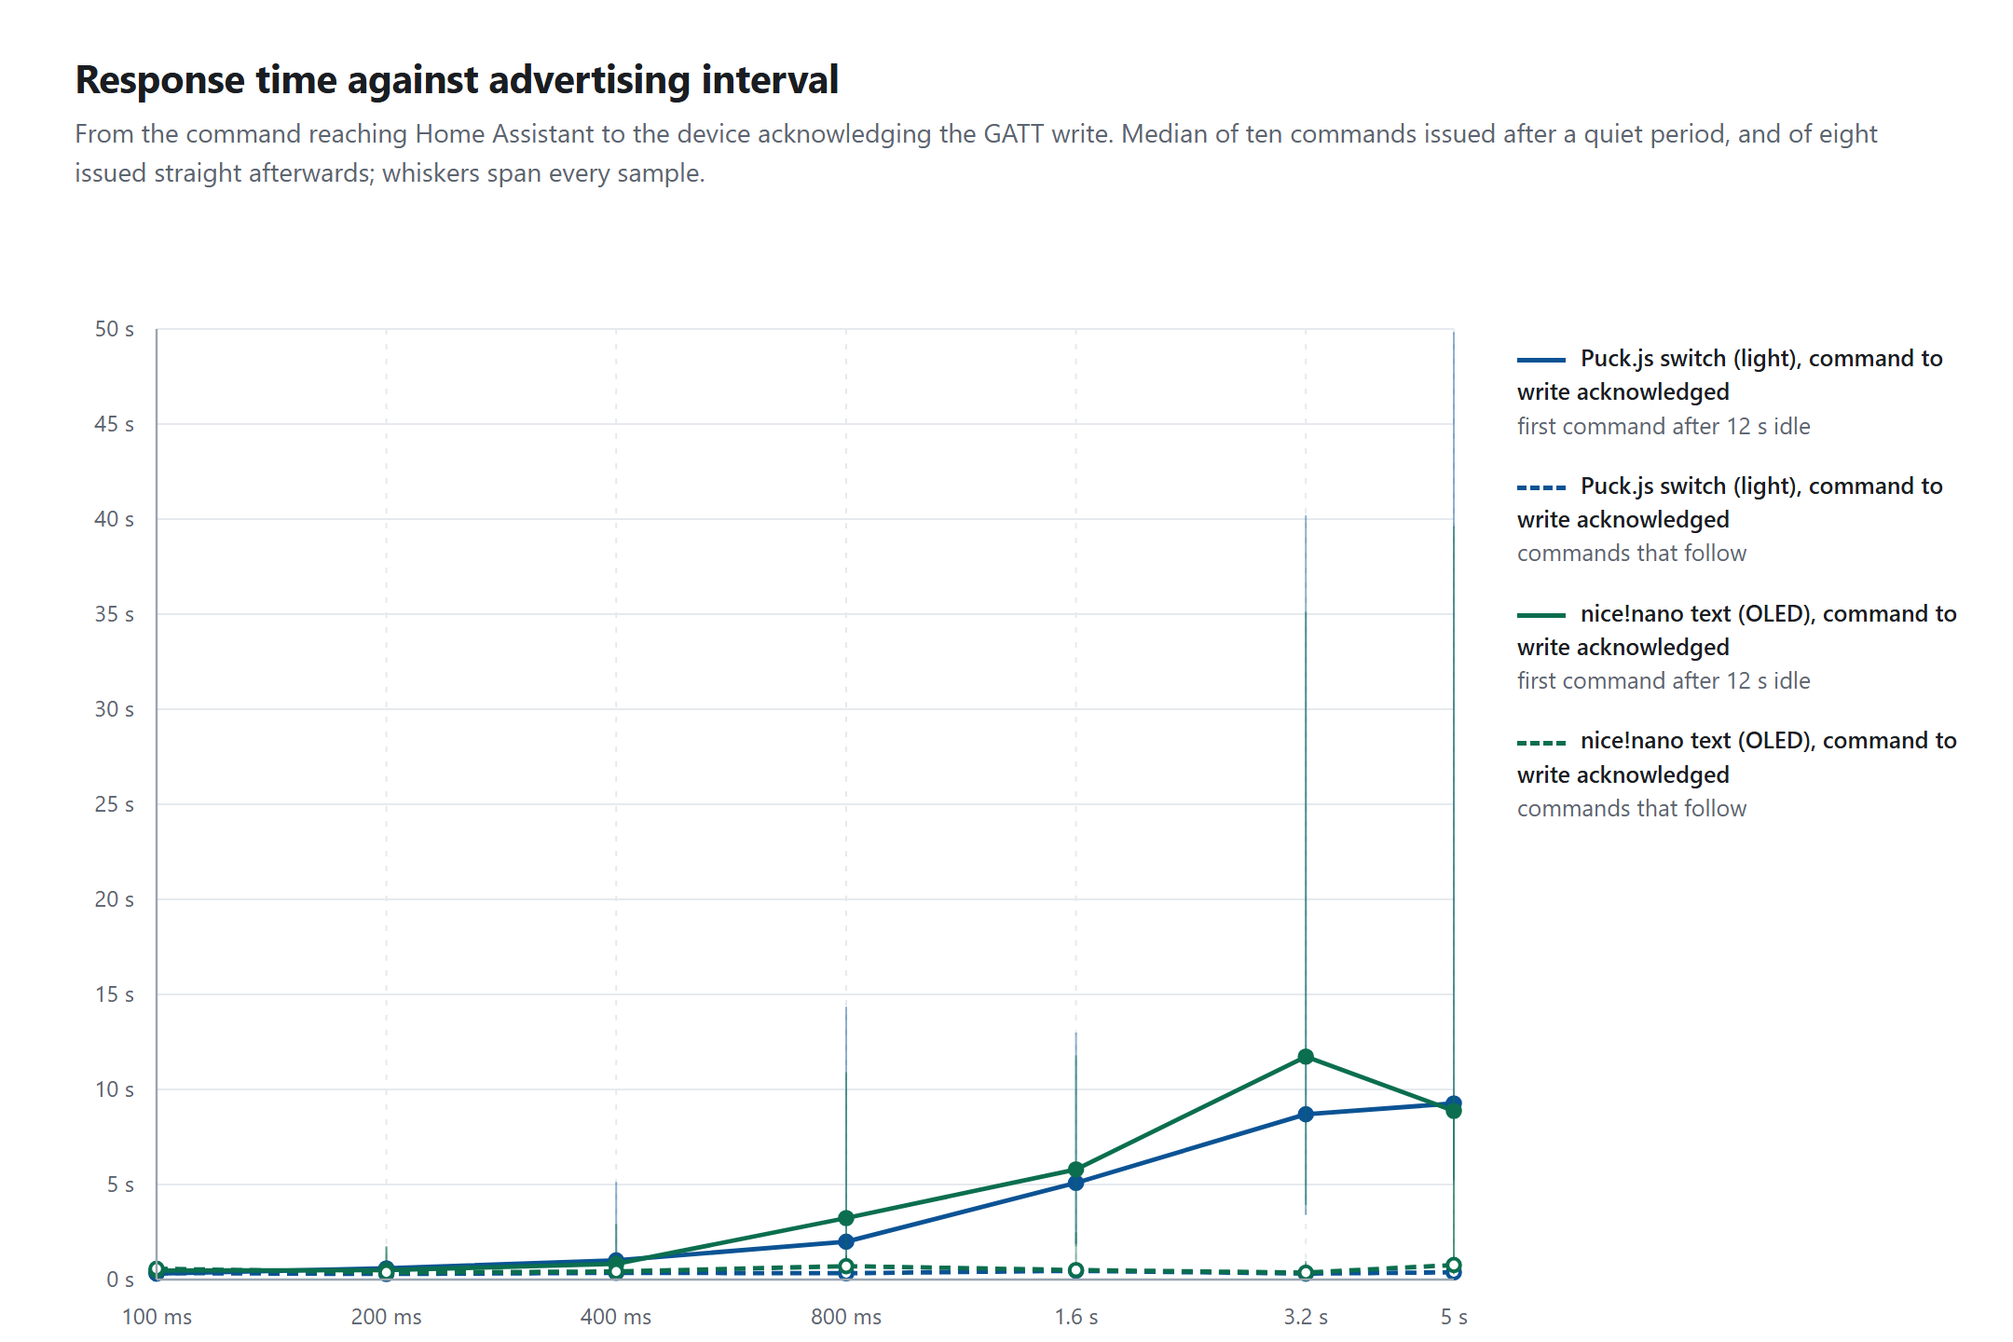
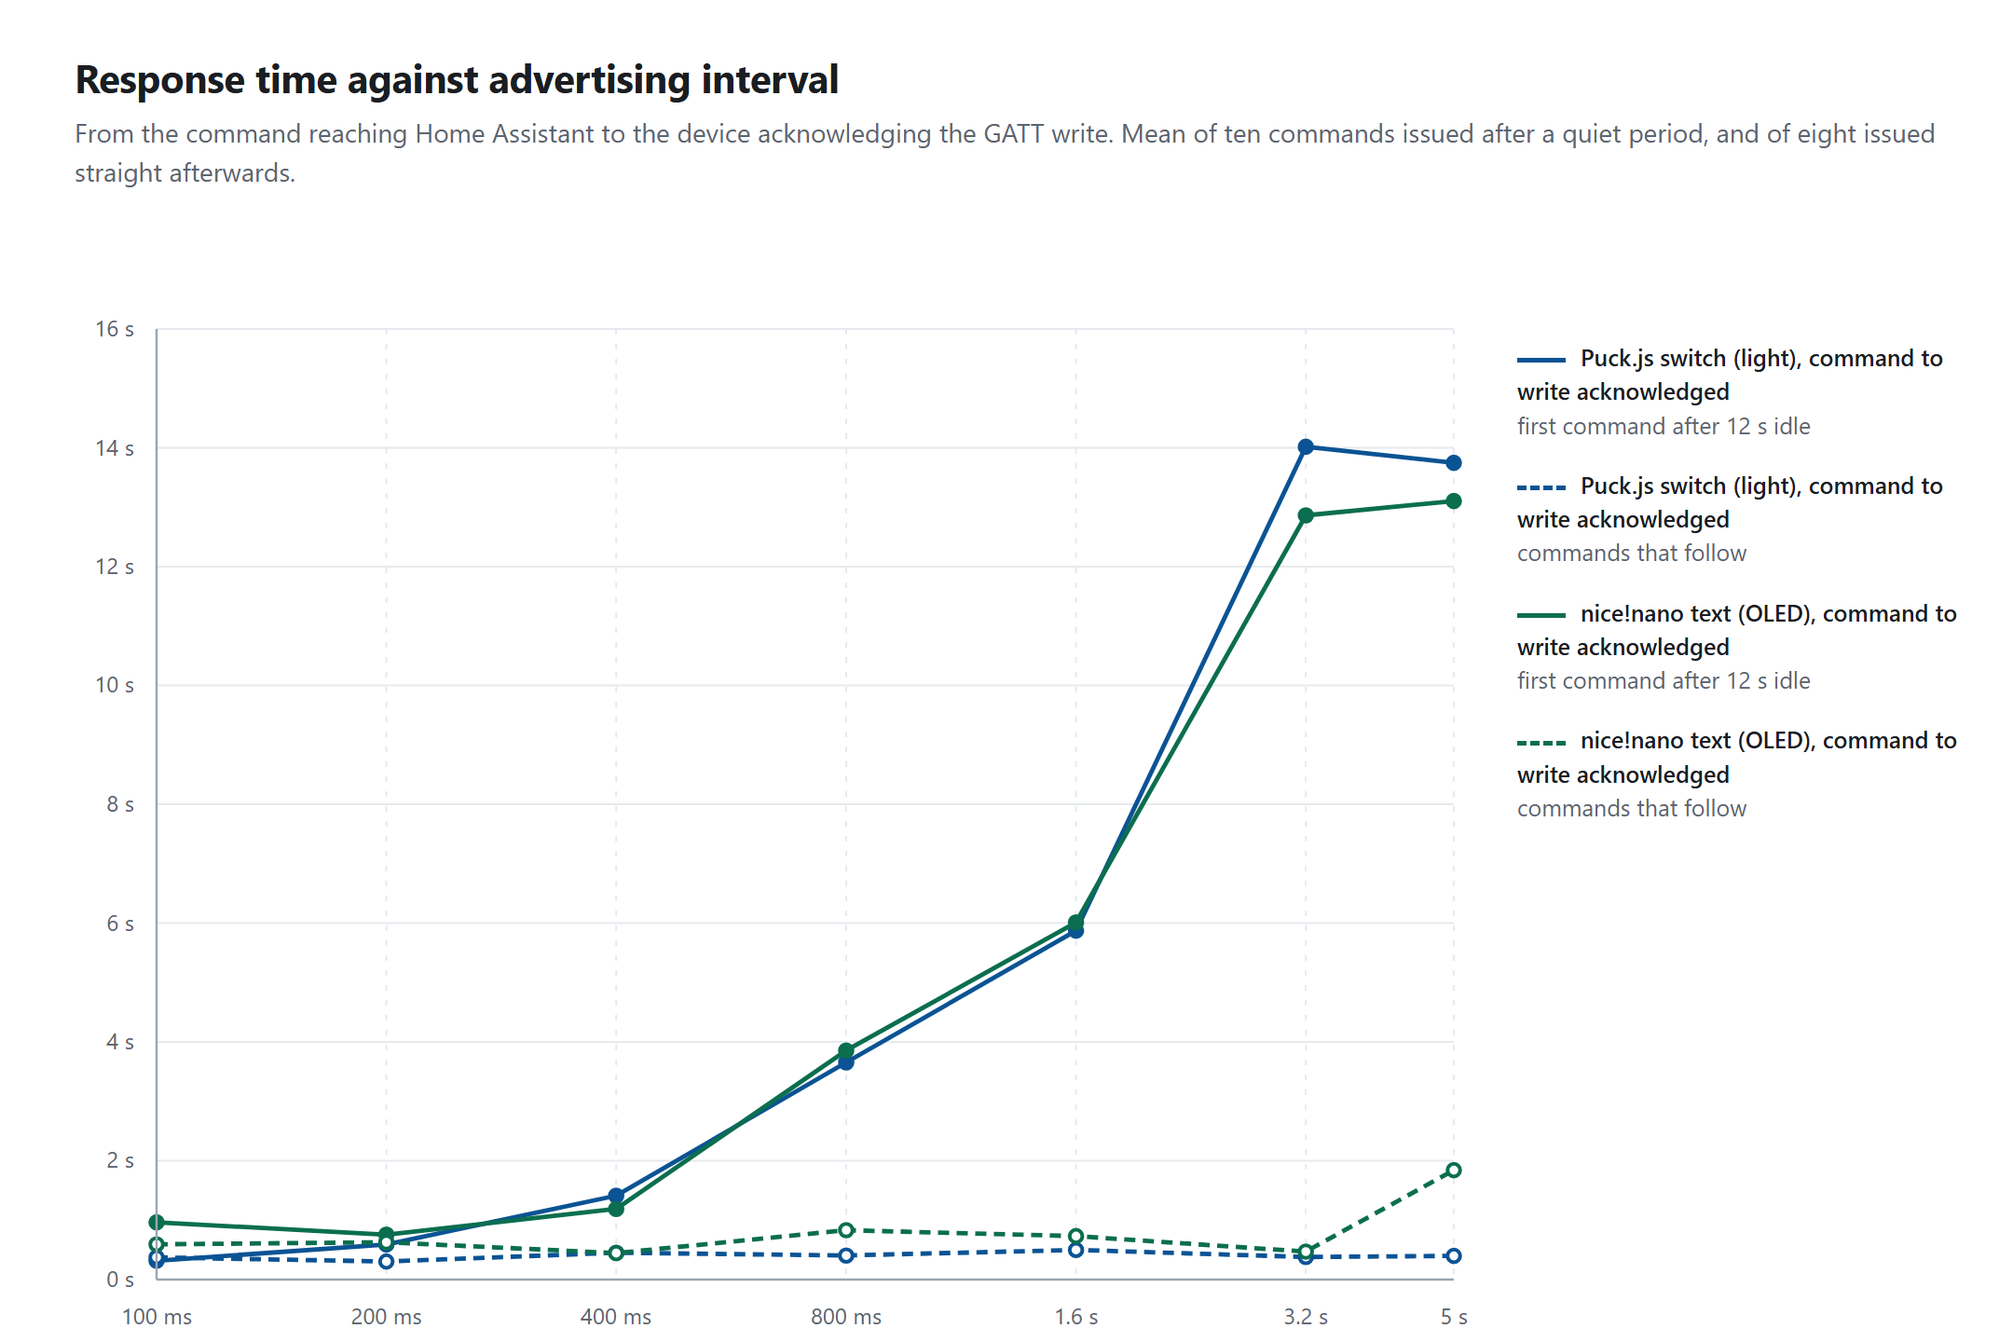
Draw the mean alone, and give the axis back the room
The latency figure plotted the median with a whisker to every sample,
which pushed the vertical scale to 50 s so that one 49.8 s outlier
could be drawn -- and squashed the curves everyone actually reads into
the bottom fifth of the plot.

One point per interval now, the mean, nothing around it. The axis
follows: 0-16 s, in 2 s steps. The spread has not gone anywhere; the
tables in measurements.md give the median, the mean and the full range
side by side, which is where a number you want to compare belongs.

Claude-Session: https://claude.ai/code/session_01Q9J3W2hNkNZMMduBZZmfHi

diff --git a/docs/figures/latency-vs-interval.html b/docs/figures/latency-vs-interval.html
@@ -29,32 +29,28 @@
 </style>
 <h1>Response time against advertising interval</h1>
 <p class="sub">From the command reaching Home Assistant to the device acknowledging the
-GATT write. Median of ten commands issued after a quiet period, and of eight issued
-straight afterwards; whiskers span every sample.</p>
+GATT write. Mean of ten commands issued after a quiet period, and of eight issued
+straight afterwards.</p>
 <div style="position:relative">
 <svg width="1080" height="660" viewBox="0 0 1080 660">
 <line class="grid" x1="84" y1="584.0" x2="780" y2="584.0"/>
 <text class="tick y" x="72" y="588.0">0 s</text>
-<line class="grid" x1="84" y1="533.0" x2="780" y2="533.0"/>
-<text class="tick y" x="72" y="537.0">5 s</text>
-<line class="grid" x1="84" y1="482.0" x2="780" y2="482.0"/>
-<text class="tick y" x="72" y="486.0">10 s</text>
-<line class="grid" x1="84" y1="431.0" x2="780" y2="431.0"/>
-<text class="tick y" x="72" y="435.0">15 s</text>
-<line class="grid" x1="84" y1="380.0" x2="780" y2="380.0"/>
-<text class="tick y" x="72" y="384.0">20 s</text>
+<line class="grid" x1="84" y1="520.2" x2="780" y2="520.2"/>
+<text class="tick y" x="72" y="524.2">2 s</text>
+<line class="grid" x1="84" y1="456.5" x2="780" y2="456.5"/>
+<text class="tick y" x="72" y="460.5">4 s</text>
+<line class="grid" x1="84" y1="392.8" x2="780" y2="392.8"/>
+<text class="tick y" x="72" y="396.8">6 s</text>
 <line class="grid" x1="84" y1="329.0" x2="780" y2="329.0"/>
-<text class="tick y" x="72" y="333.0">25 s</text>
-<line class="grid" x1="84" y1="278.0" x2="780" y2="278.0"/>
-<text class="tick y" x="72" y="282.0">30 s</text>
-<line class="grid" x1="84" y1="227.0" x2="780" y2="227.0"/>
-<text class="tick y" x="72" y="231.0">35 s</text>
-<line class="grid" x1="84" y1="176.0" x2="780" y2="176.0"/>
-<text class="tick y" x="72" y="180.0">40 s</text>
-<line class="grid" x1="84" y1="125.0" x2="780" y2="125.0"/>
-<text class="tick y" x="72" y="129.0">45 s</text>
+<text class="tick y" x="72" y="333.0">8 s</text>
+<line class="grid" x1="84" y1="265.2" x2="780" y2="265.2"/>
+<text class="tick y" x="72" y="269.2">10 s</text>
+<line class="grid" x1="84" y1="201.5" x2="780" y2="201.5"/>
+<text class="tick y" x="72" y="205.5">12 s</text>
+<line class="grid" x1="84" y1="137.8" x2="780" y2="137.8"/>
+<text class="tick y" x="72" y="141.8">14 s</text>
 <line class="grid" x1="84" y1="74.0" x2="780" y2="74.0"/>
-<text class="tick y" x="72" y="78.0">50 s</text>
+<text class="tick y" x="72" y="78.0">16 s</text>
 <line class="grid v" x1="84.0" y1="74" x2="84.0" y2="584"/>
 <text class="tick x" x="84.0" y="608">100 ms</text>
 <line class="grid v" x1="207.3" y1="74" x2="207.3" y2="584"/>
@@ -69,66 +65,38 @@ straight afterwards; whiskers span every sample.</p>
 <text class="tick x" x="700.6" y="608">3.2 s</text>
 <line class="grid v" x1="780.0" y1="74" x2="780.0" y2="584"/>
 <text class="tick x" x="780.0" y="608">5 s</text>
-<path d="M84.0 580.8 L207.3 578.0 L330.6 573.7 L454.0 563.7 L577.3 532.1 L700.6 495.3 L780.0 489.5" fill="none" stroke="#0b5394" stroke-width="2.4" stroke-dasharray="" stroke-linejoin="round"/>
-<line x1="84.0" y1="582.0" x2="84.0" y2="578.5" stroke="#0b5394" stroke-width="1" opacity="0.45"/>
-<circle cx="84.0" cy="580.8" r="3.4" fill="#0b5394" stroke="#0b5394" stroke-width="2"/>
-<line x1="207.3" y1="580.5" x2="207.3" y2="573.6" stroke="#0b5394" stroke-width="1" opacity="0.45"/>
-<circle cx="207.3" cy="578.0" r="3.4" fill="#0b5394" stroke="#0b5394" stroke-width="2"/>
-<line x1="330.6" y1="580.5" x2="330.6" y2="531.7" stroke="#0b5394" stroke-width="1" opacity="0.45"/>
-<circle cx="330.6" cy="573.7" r="3.4" fill="#0b5394" stroke="#0b5394" stroke-width="2"/>
-<line x1="454.0" y1="580.6" x2="454.0" y2="437.6" stroke="#0b5394" stroke-width="1" opacity="0.45"/>
-<circle cx="454.0" cy="563.7" r="3.4" fill="#0b5394" stroke="#0b5394" stroke-width="2"/>
-<line x1="577.3" y1="564.8" x2="577.3" y2="451.5" stroke="#0b5394" stroke-width="1" opacity="0.45"/>
-<circle cx="577.3" cy="532.1" r="3.4" fill="#0b5394" stroke="#0b5394" stroke-width="2"/>
-<line x1="700.6" y1="549.4" x2="700.6" y2="174.0" stroke="#0b5394" stroke-width="1" opacity="0.45"/>
-<circle cx="700.6" cy="495.3" r="3.4" fill="#0b5394" stroke="#0b5394" stroke-width="2"/>
-<line x1="780.0" y1="530.8" x2="780.0" y2="75.7" stroke="#0b5394" stroke-width="1" opacity="0.45"/>
-<circle cx="780.0" cy="489.5" r="3.4" fill="#0b5394" stroke="#0b5394" stroke-width="2"/>
-<path d="M84.0 580.5 L207.3 581.0 L330.6 580.4 L454.0 580.6 L577.3 579.3 L700.6 580.8 L780.0 580.1" fill="none" stroke="#0b5394" stroke-width="2.4" stroke-dasharray="6 4" stroke-linejoin="round"/>
-<line x1="84.0" y1="581.5" x2="84.0" y2="577.9" stroke="#0b5394" stroke-width="1" opacity="0.45"/>
-<circle cx="84.0" cy="580.5" r="3.4" fill="#fff" stroke="#0b5394" stroke-width="2"/>
-<line x1="207.3" y1="581.5" x2="207.3" y2="580.0" stroke="#0b5394" stroke-width="1" opacity="0.45"/>
-<circle cx="207.3" cy="581.0" r="3.4" fill="#fff" stroke="#0b5394" stroke-width="2"/>
-<line x1="330.6" y1="581.8" x2="330.6" y2="570.2" stroke="#0b5394" stroke-width="1" opacity="0.45"/>
-<circle cx="330.6" cy="580.4" r="3.4" fill="#fff" stroke="#0b5394" stroke-width="2"/>
-<line x1="454.0" y1="581.8" x2="454.0" y2="574.7" stroke="#0b5394" stroke-width="1" opacity="0.45"/>
-<circle cx="454.0" cy="580.6" r="3.4" fill="#fff" stroke="#0b5394" stroke-width="2"/>
-<line x1="577.3" y1="581.0" x2="577.3" y2="575.4" stroke="#0b5394" stroke-width="1" opacity="0.45"/>
-<circle cx="577.3" cy="579.3" r="3.4" fill="#fff" stroke="#0b5394" stroke-width="2"/>
-<line x1="700.6" y1="581.8" x2="700.6" y2="575.1" stroke="#0b5394" stroke-width="1" opacity="0.45"/>
-<circle cx="700.6" cy="580.8" r="3.4" fill="#fff" stroke="#0b5394" stroke-width="2"/>
-<line x1="780.0" y1="581.6" x2="780.0" y2="577.7" stroke="#0b5394" stroke-width="1" opacity="0.45"/>
-<circle cx="780.0" cy="580.1" r="3.4" fill="#fff" stroke="#0b5394" stroke-width="2"/>
-<path d="M84.0 579.2 L207.3 578.9 L330.6 575.6 L454.0 551.0 L577.3 524.9 L700.6 464.4 L780.0 493.5" fill="none" stroke="#0b6e4f" stroke-width="2.4" stroke-dasharray="" stroke-linejoin="round"/>
-<line x1="84.0" y1="580.8" x2="84.0" y2="546.2" stroke="#0b6e4f" stroke-width="1" opacity="0.45"/>
-<circle cx="84.0" cy="579.2" r="3.4" fill="#0b6e4f" stroke="#0b6e4f" stroke-width="2"/>
-<line x1="207.3" y1="580.2" x2="207.3" y2="566.6" stroke="#0b6e4f" stroke-width="1" opacity="0.45"/>
-<circle cx="207.3" cy="578.9" r="3.4" fill="#0b6e4f" stroke="#0b6e4f" stroke-width="2"/>
-<line x1="330.6" y1="578.3" x2="330.6" y2="554.2" stroke="#0b6e4f" stroke-width="1" opacity="0.45"/>
-<circle cx="330.6" cy="575.6" r="3.4" fill="#0b6e4f" stroke="#0b6e4f" stroke-width="2"/>
-<line x1="454.0" y1="573.1" x2="454.0" y2="472.7" stroke="#0b6e4f" stroke-width="1" opacity="0.45"/>
-<circle cx="454.0" cy="551.0" r="3.4" fill="#0b6e4f" stroke="#0b6e4f" stroke-width="2"/>
-<line x1="577.3" y1="566.2" x2="577.3" y2="463.7" stroke="#0b6e4f" stroke-width="1" opacity="0.45"/>
-<circle cx="577.3" cy="524.9" r="3.4" fill="#0b6e4f" stroke="#0b6e4f" stroke-width="2"/>
-<line x1="700.6" y1="544.0" x2="700.6" y2="225.8" stroke="#0b6e4f" stroke-width="1" opacity="0.45"/>
-<circle cx="700.6" cy="464.4" r="3.4" fill="#0b6e4f" stroke="#0b6e4f" stroke-width="2"/>
-<line x1="780.0" y1="578.9" x2="780.0" y2="179.9" stroke="#0b6e4f" stroke-width="1" opacity="0.45"/>
-<circle cx="780.0" cy="493.5" r="3.4" fill="#0b6e4f" stroke="#0b6e4f" stroke-width="2"/>
-<path d="M84.0 578.2 L207.3 580.2 L330.6 579.7 L454.0 576.8 L577.3 578.9 L700.6 580.3 L780.0 576.2" fill="none" stroke="#0b6e4f" stroke-width="2.4" stroke-dasharray="6 4" stroke-linejoin="round"/>
-<line x1="84.0" y1="581.2" x2="84.0" y2="572.2" stroke="#0b6e4f" stroke-width="1" opacity="0.45"/>
-<circle cx="84.0" cy="578.2" r="3.4" fill="#fff" stroke="#0b6e4f" stroke-width="2"/>
-<line x1="207.3" y1="581.4" x2="207.3" y2="566.0" stroke="#0b6e4f" stroke-width="1" opacity="0.45"/>
-<circle cx="207.3" cy="580.2" r="3.4" fill="#fff" stroke="#0b6e4f" stroke-width="2"/>
-<line x1="330.6" y1="581.4" x2="330.6" y2="576.4" stroke="#0b6e4f" stroke-width="1" opacity="0.45"/>
-<circle cx="330.6" cy="579.7" r="3.4" fill="#fff" stroke="#0b6e4f" stroke-width="2"/>
-<line x1="454.0" y1="580.3" x2="454.0" y2="571.1" stroke="#0b6e4f" stroke-width="1" opacity="0.45"/>
-<circle cx="454.0" cy="576.8" r="3.4" fill="#fff" stroke="#0b6e4f" stroke-width="2"/>
-<line x1="577.3" y1="581.7" x2="577.3" y2="558.6" stroke="#0b6e4f" stroke-width="1" opacity="0.45"/>
-<circle cx="577.3" cy="578.9" r="3.4" fill="#fff" stroke="#0b6e4f" stroke-width="2"/>
-<line x1="700.6" y1="581.7" x2="700.6" y2="574.0" stroke="#0b6e4f" stroke-width="1" opacity="0.45"/>
-<circle cx="700.6" cy="580.3" r="3.4" fill="#fff" stroke="#0b6e4f" stroke-width="2"/>
-<line x1="780.0" y1="581.2" x2="780.0" y2="485.8" stroke="#0b6e4f" stroke-width="1" opacity="0.45"/>
-<circle cx="780.0" cy="576.2" r="3.4" fill="#fff" stroke="#0b6e4f" stroke-width="2"/>
+<path d="M84.0 573.9 L207.3 565.2 L330.6 539.0 L454.0 467.5 L577.3 396.8 L700.6 137.2 L780.0 145.8" fill="none" stroke="#0b5394" stroke-width="2.4" stroke-dasharray="" stroke-linejoin="round"/>
+<circle cx="84.0" cy="573.9" r="3.4" fill="#0b5394" stroke="#0b5394" stroke-width="2"/>
+<circle cx="207.3" cy="565.2" r="3.4" fill="#0b5394" stroke="#0b5394" stroke-width="2"/>
+<circle cx="330.6" cy="539.0" r="3.4" fill="#0b5394" stroke="#0b5394" stroke-width="2"/>
+<circle cx="454.0" cy="467.5" r="3.4" fill="#0b5394" stroke="#0b5394" stroke-width="2"/>
+<circle cx="577.3" cy="396.8" r="3.4" fill="#0b5394" stroke="#0b5394" stroke-width="2"/>
+<circle cx="700.6" cy="137.2" r="3.4" fill="#0b5394" stroke="#0b5394" stroke-width="2"/>
+<circle cx="780.0" cy="145.8" r="3.4" fill="#0b5394" stroke="#0b5394" stroke-width="2"/>
+<path d="M84.0 572.1 L207.3 574.3 L330.6 569.6 L454.0 571.1 L577.3 568.1 L700.6 571.9 L780.0 571.3" fill="none" stroke="#0b5394" stroke-width="2.4" stroke-dasharray="6 4" stroke-linejoin="round"/>
+<circle cx="84.0" cy="572.1" r="3.4" fill="#fff" stroke="#0b5394" stroke-width="2"/>
+<circle cx="207.3" cy="574.3" r="3.4" fill="#fff" stroke="#0b5394" stroke-width="2"/>
+<circle cx="330.6" cy="569.6" r="3.4" fill="#fff" stroke="#0b5394" stroke-width="2"/>
+<circle cx="454.0" cy="571.1" r="3.4" fill="#fff" stroke="#0b5394" stroke-width="2"/>
+<circle cx="577.3" cy="568.1" r="3.4" fill="#fff" stroke="#0b5394" stroke-width="2"/>
+<circle cx="700.6" cy="571.9" r="3.4" fill="#fff" stroke="#0b5394" stroke-width="2"/>
+<circle cx="780.0" cy="571.3" r="3.4" fill="#fff" stroke="#0b5394" stroke-width="2"/>
+<path d="M84.0 553.3 L207.3 559.9 L330.6 546.1 L454.0 461.1 L577.3 392.4 L700.6 174.0 L780.0 166.3" fill="none" stroke="#0b6e4f" stroke-width="2.4" stroke-dasharray="" stroke-linejoin="round"/>
+<circle cx="84.0" cy="553.3" r="3.4" fill="#0b6e4f" stroke="#0b6e4f" stroke-width="2"/>
+<circle cx="207.3" cy="559.9" r="3.4" fill="#0b6e4f" stroke="#0b6e4f" stroke-width="2"/>
+<circle cx="330.6" cy="546.1" r="3.4" fill="#0b6e4f" stroke="#0b6e4f" stroke-width="2"/>
+<circle cx="454.0" cy="461.1" r="3.4" fill="#0b6e4f" stroke="#0b6e4f" stroke-width="2"/>
+<circle cx="577.3" cy="392.4" r="3.4" fill="#0b6e4f" stroke="#0b6e4f" stroke-width="2"/>
+<circle cx="700.6" cy="174.0" r="3.4" fill="#0b6e4f" stroke="#0b6e4f" stroke-width="2"/>
+<circle cx="780.0" cy="166.3" r="3.4" fill="#0b6e4f" stroke="#0b6e4f" stroke-width="2"/>
+<path d="M84.0 565.1 L207.3 564.0 L330.6 569.8 L454.0 557.5 L577.3 560.7 L700.6 569.0 L780.0 525.3" fill="none" stroke="#0b6e4f" stroke-width="2.4" stroke-dasharray="6 4" stroke-linejoin="round"/>
+<circle cx="84.0" cy="565.1" r="3.4" fill="#fff" stroke="#0b6e4f" stroke-width="2"/>
+<circle cx="207.3" cy="564.0" r="3.4" fill="#fff" stroke="#0b6e4f" stroke-width="2"/>
+<circle cx="330.6" cy="569.8" r="3.4" fill="#fff" stroke="#0b6e4f" stroke-width="2"/>
+<circle cx="454.0" cy="557.5" r="3.4" fill="#fff" stroke="#0b6e4f" stroke-width="2"/>
+<circle cx="577.3" cy="560.7" r="3.4" fill="#fff" stroke="#0b6e4f" stroke-width="2"/>
+<circle cx="700.6" cy="569.0" r="3.4" fill="#fff" stroke="#0b6e4f" stroke-width="2"/>
+<circle cx="780.0" cy="525.3" r="3.4" fill="#fff" stroke="#0b6e4f" stroke-width="2"/>
 <line class="axis" x1="84" y1="584" x2="780" y2="584"/>
 <line class="axis" x1="84" y1="74" x2="84" y2="584"/>
 <text class="axis-label" x="432" y="638">advertising interval (logarithmic)</text>

diff --git a/tools/gen_latency_figure.py b/tools/gen_latency_figure.py
@@ -2,7 +2,9 @@
 
 Reads the JSON `tools.latency_sweep` writes and renders one figure with a curve
 per device and per case — the first command after an idle period, and the
-commands that follow it. The x axis is logarithmic because the sweep is:
+commands that follow it. Each point is the mean of that interval's samples, and
+nothing is drawn around it: the figure is for the shape of the curve, and the
+spread belongs in the tables. The x axis is logarithmic because the sweep is:
 100 ms to 5 s spans most of two decades, and the interesting part is at the top.
 
     python -m tools.gen_latency_figure docs/data/*.json \
@@ -52,25 +54,20 @@ def totals(samples: list[dict]) -> list[float]:
 
 
 def series(dataset: dict, case: str) -> list[tuple[int, float, float, float]]:
-    """(interval, median, min, max) per interval, for one case.
+    """(interval, mean) per interval, for one case.
 
-    The median, not the mean: a connection attempt that misses its advertising
-    window waits out another interval, so every interval has a few samples far
-    above the rest. A mean follows those; the median says what usually happens,
-    and the whiskers show how far the rest reach.
+    One number per point and nothing else. These distributions are skewed -- a
+    connection attempt that misses its advertising window waits out another one,
+    so every interval has a few samples far above the rest -- and the figure no
+    longer says so: it is the shape of the curve, not the spread around it. The
+    spread is in `measurements.md`, which gives the median, the mean and the
+    full range side by side.
     """
     out = []
     for row in dataset["results"]:
         values = totals(row[case])
         if values:
-            out.append(
-                (
-                    row["interval_ms"],
-                    statistics.median(values),
-                    min(values),
-                    max(values),
-                )
-            )
+            out.append((row["interval_ms"], statistics.fmean(values)))
     return sorted(out)
 
 
@@ -86,18 +83,20 @@ def y_of(seconds: float, top: float) -> float:
 def svg(datasets: list[dict]) -> str:
     peak = max(
         (
-            point[3]
+            point[1]
             for data in datasets
             for case in ("first", "consecutive")
             for point in series(data, case)
         ),
         default=1.0,
     )
-    top = math.ceil(peak / 5) * 5 or 5
+    # Round up to the next tick rather than the next five, so that dropping the
+    # whiskers actually buys the vertical room it was supposed to.
+    step = 5 if peak > 24 else (2 if peak > 9 else 1)
+    top = math.ceil(peak / step) * step or step
     parts: list[str] = []
 
     # Horizontal grid and the seconds axis.
-    step = 5 if top > 12 else (2 if top > 6 else 1)
     value = 0
     while value <= top:
         y = y_of(value, top)
@@ -144,13 +143,8 @@ def svg(datasets: list[dict]) -> str:
                 f'<path d="{path}" fill="none" stroke="{colour}" stroke-width="2.4"'
                 f' stroke-dasharray="{dash}" stroke-linejoin="round"/>'
             )
-            for interval, mean, low, high in points:
+            for interval, mean in points:
                 x = x_of(interval)
-                parts.append(
-                    f'<line x1="{x:.1f}" y1="{y_of(low, top):.1f}" x2="{x:.1f}"'
-                    f' y2="{y_of(high, top):.1f}" stroke="{colour}" stroke-width="1"'
-                    f' opacity="0.45"/>'
-                )
                 parts.append(
                     f'<circle cx="{x:.1f}" cy="{y_of(mean, top):.1f}" r="3.4"'
                     f' fill="{"#fff" if case == "consecutive" else colour}"'
@@ -209,8 +203,8 @@ def render(datasets: list[dict]) -> str:
 </style>
 <h1>Response time against advertising interval</h1>
 <p class="sub">From the command reaching Home Assistant to the device acknowledging the
-GATT write. Median of ten commands issued after a quiet period, and of eight issued
-straight afterwards; whiskers span every sample.</p>
+GATT write. Mean of ten commands issued after a quiet period, and of eight issued
+straight afterwards.</p>
 <div style="position:relative">
 <svg width="{W}" height="{H}" viewBox="0 0 {W} {H}">
 {body}

diff --git a/docs/measurements.md b/docs/measurements.md
@@ -62,7 +62,9 @@ throughout (D-056).
 connection build (D-059). The sweep is `tools/latency_sweep_write.py`;
 `tools/summarise_latency.py` prints the tables below from the raw samples in
 `data/`, and the figure is
-[`figures/latency-vs-interval.png`](figures/latency-vs-interval.png).
+[`figures/latency-vs-interval.png`](figures/latency-vs-interval.png) — which plots
+the mean alone, with nothing drawn around it, so the curve's shape reads at a
+glance. The spread stays here, in the tables.
 
 ```
 python -m tools.latency_sweep_write --device puck --out docs/data/write-puck-switch.json
